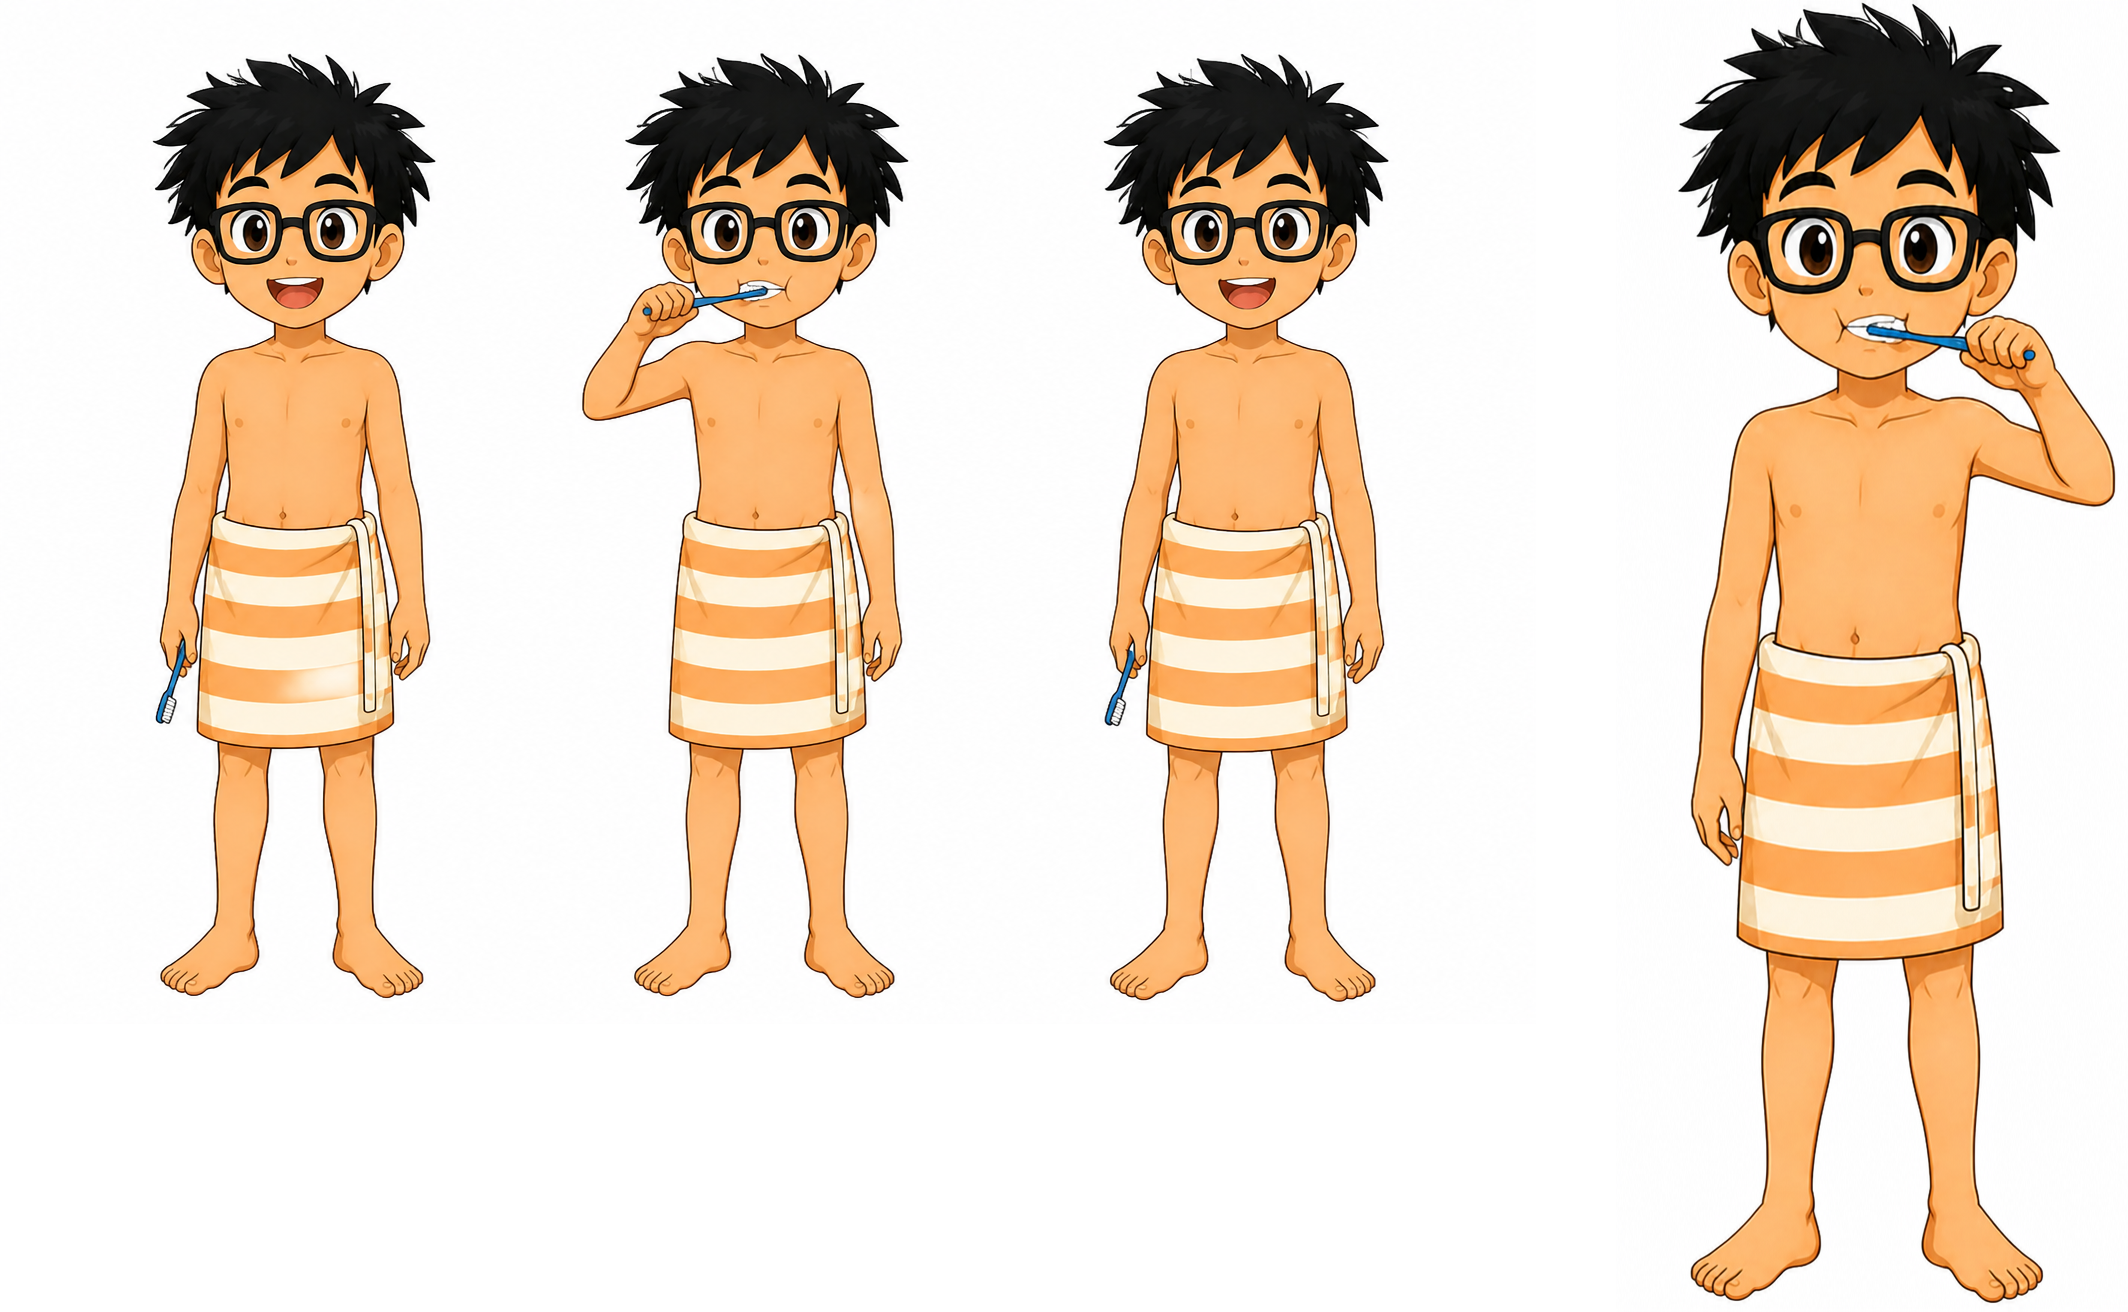
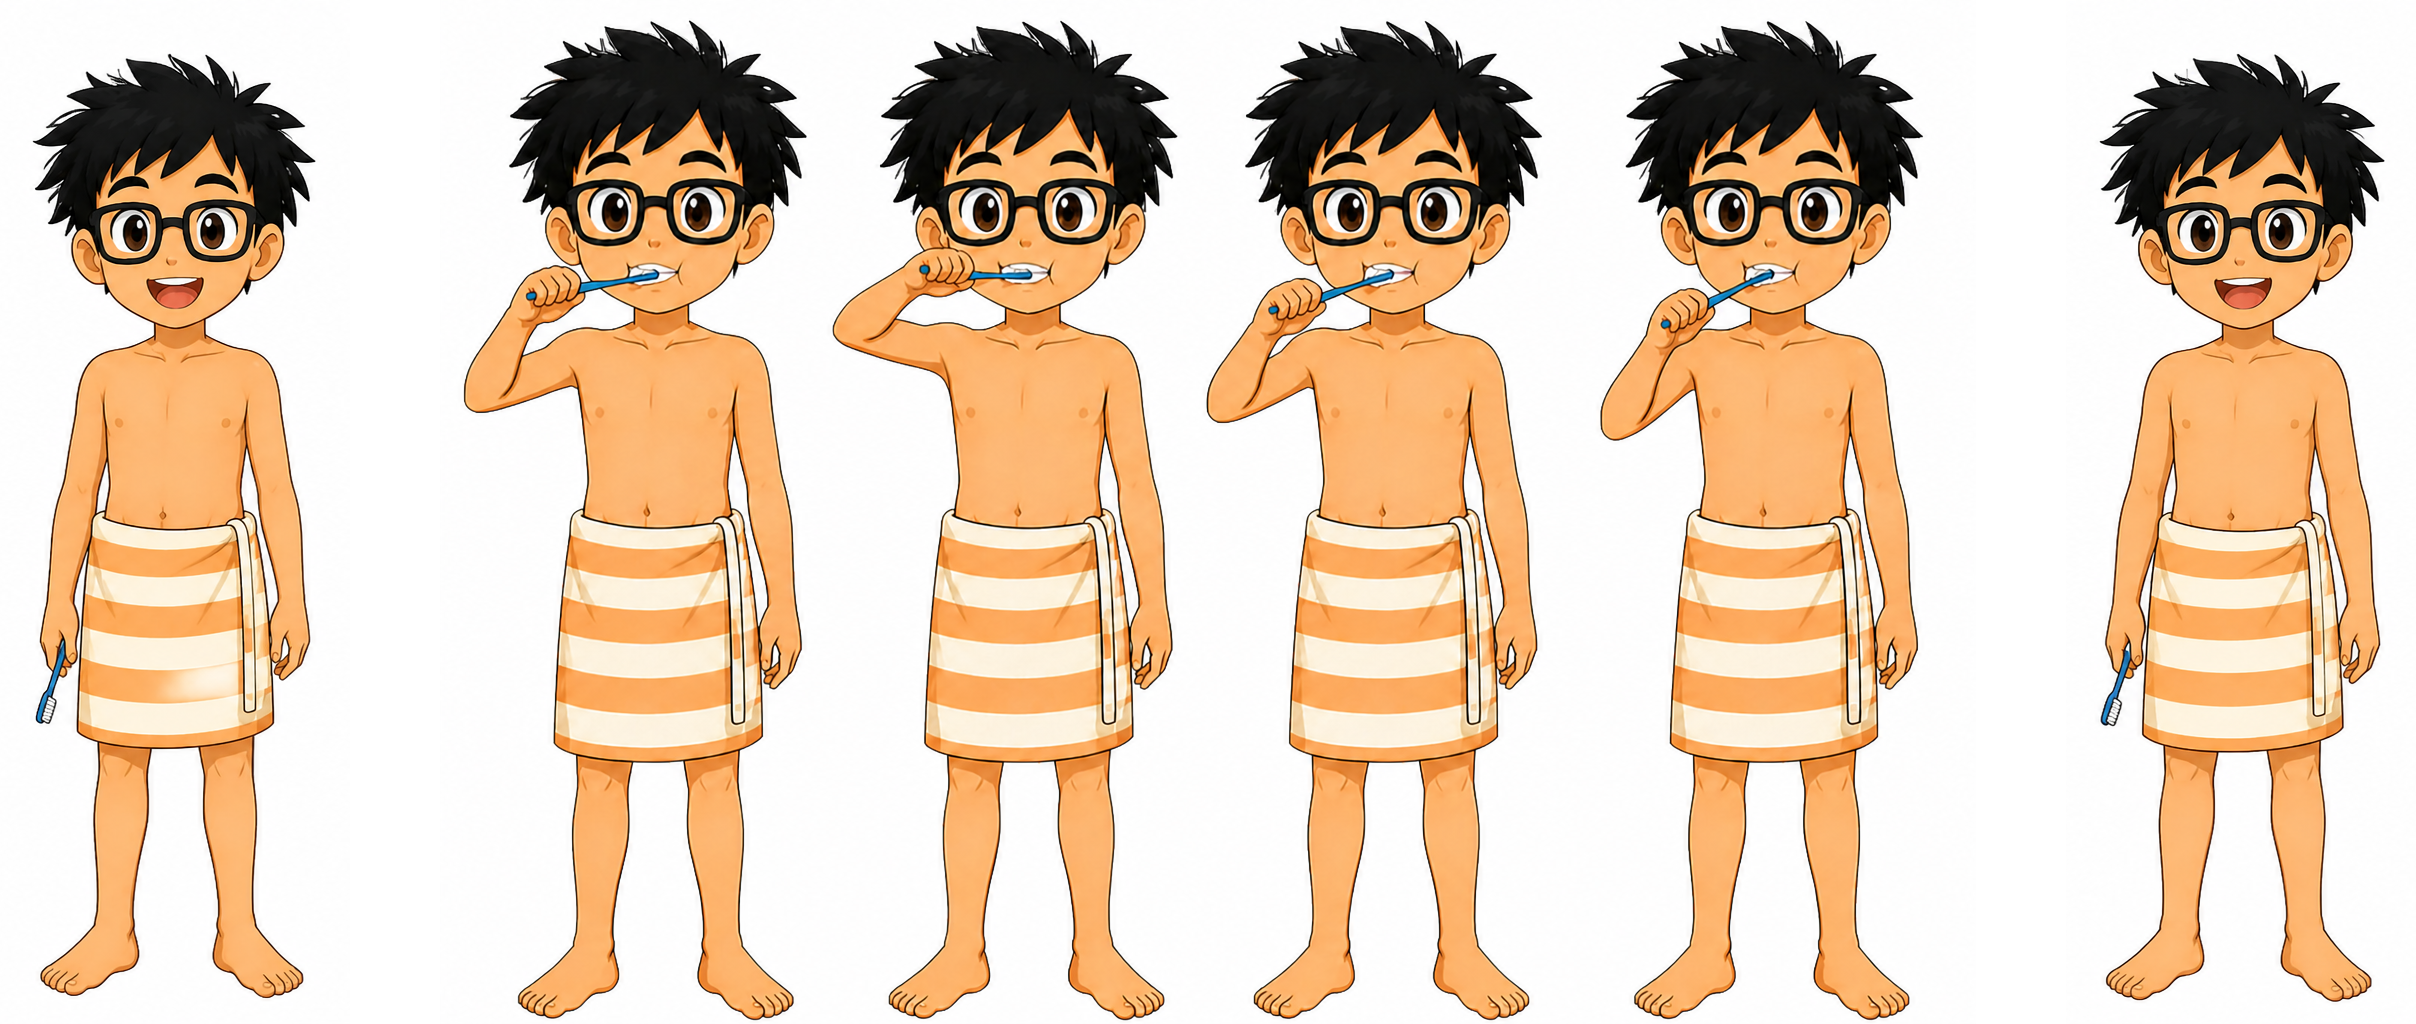
Brush the teeth, not the air beside them
The last pass read "left and right" as his HAND crossing to the other
side of his mouth, which is not a thing anyone does while brushing. What
moves when you brush is the brush: across the teeth, then up and down.

So the loop is now four brushing positions with the toothbrush in the
same hand throughout - left of his mouth, across to the right, tilted up
against the upper teeth, tilted down against the lower teeth - and the
hand that swapped sides is gone.

Six frames in play order now, which is also the order they sit in the
raw strip: 1 lifts the brush, 2-5 are the motion, 6 lowers it. The
timing is unchanged and still equals brush_teeth.wav to the frame -
0.50s up, 4.00s brushing as four positions four times over, 0.25s down.

Two things worth recording about generating them. The four-up came back
first as small figures in a tall canvas, which would have needed a 3x
upscale and sat visibly soft beside the others; asking for ONE WIDE
LANDSCAPE IMAGE roughly four times as wide as tall fixed that. Then it
came back on BLACK, which cannot be cut here at all - his hair and his
outlines are black too, so the cutter would have eaten the boy. Asking
for the same frames again on white was a one-line follow-up.

diff --git a/Assets/Editor/BuildBahayScene3.cs b/Assets/Editor/BuildBahayScene3.cs
@@ -42,7 +42,7 @@
 //   item_sipilyo, item_tuwalya, fx_bath,
 //   standing_towel_messy, talking_towel,
 //   standing_towel_combed if it has ever been drawn - "Suklay" falls back
-//   to talking_towel without it, sipilyo_frame_1..4,
+//   to talking_towel without it, sipilyo_frame_1..6,
 //
 // Sounds expected in Assets/Resources/Sfx/:
 //   brush_teeth - made by Tools/make_brush_sfx.py
@@ -222,13 +222,14 @@ public class BuildBahayScene3
         // standingSprite every frame it is not moving, so a sequence driving
         // the renderer directly is overwritten before anyone sees it.
         //
-        // The loop alternates the brush between the two sides of his mouth,
-        // which is the only reason it reads as brushing rather than as a
-        // held pose. Two frames at four a second is two strokes a second.
+        // The loop is the brushing motion itself - the brush travelling
+        // across his teeth and then tilting up and down - not his hand
+        // swapping sides of his mouth. Four positions: left, right, upper
+        // teeth, lower teeth, with the brush in the same hand throughout.
         //
         // The numbers add up to the length of the sound deliberately:
         //   lead-in   2 frames / 4 fps = 0.50 s   he lifts the brush
-        //   loop      2 x 8   / 4 fps = 4.00 s   eight strokes
+        //   loop      4 x 4   / 4 fps = 4.00 s   eight strokes
         //   tail      1 frame / 4 fps = 0.25 s   he lowers it
         //                              = 4.75 s, which is brush_teeth.wav.
         // Change one and change the other, or he goes on brushing in silence.
@@ -238,10 +239,16 @@ public class BuildBahayScene3
         brush.playOnEnable = false;
         brush.framesPerSecond = 4f;
         brush.loopFramesPerSecond = 4f;
-        brush.loopCycles = 8;
+        brush.loopCycles = 4;
         brush.frames = new[] { LoadSprite("sipilyo_frame_1"), LoadSprite("sipilyo_frame_2") };
-        brush.loopFrames = new[] { LoadSprite("sipilyo_frame_2"), LoadSprite("sipilyo_frame_4") };
-        brush.tailFrames = new[] { LoadSprite("sipilyo_frame_3") };
+        brush.loopFrames = new[]
+        {
+            LoadSprite("sipilyo_frame_2"),   // brush at the left of his mouth
+            LoadSprite("sipilyo_frame_3"),   // across to the right
+            LoadSprite("sipilyo_frame_4"),   // tilted up, upper teeth
+            LoadSprite("sipilyo_frame_5"),   // tilted down, lower teeth
+        };
+        brush.tailFrames = new[] { LoadSprite("sipilyo_frame_6") };
         brush.destinationSprite = LoadSpriteOr("standing_towel_messy", "talking_towel");
 
         // The bristles. Static SoundEffects.Play cannot be a persistent
